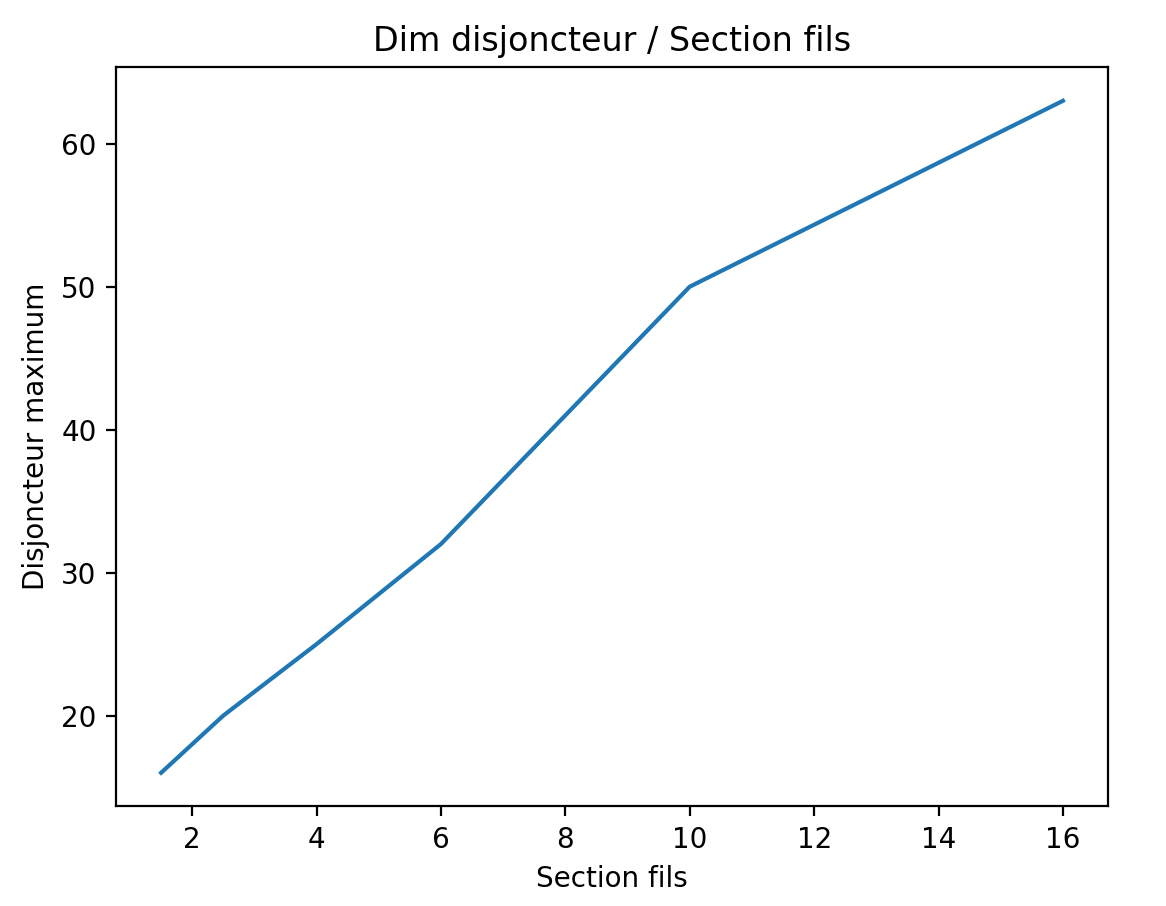
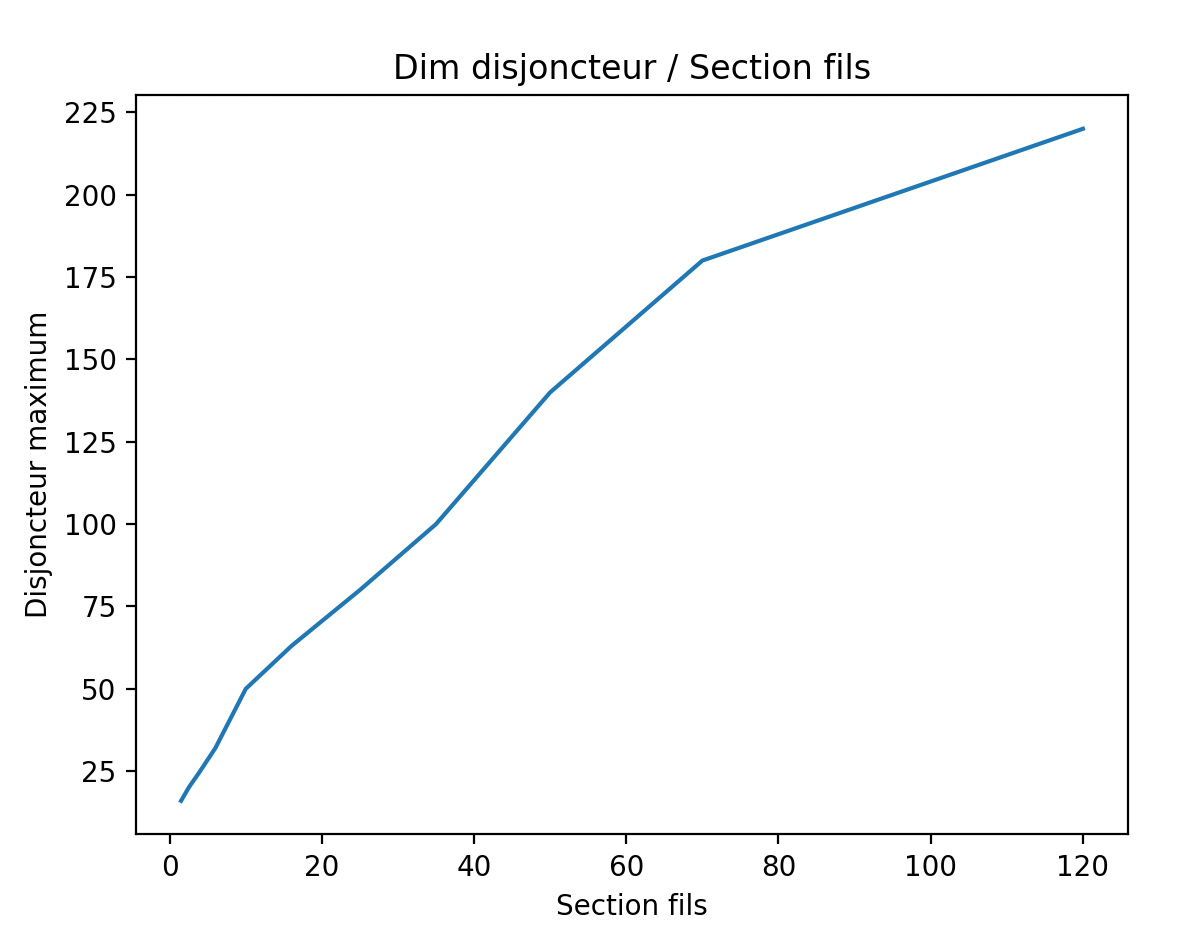
Misc edits

diff --git a/1ere_partie/CAP_Elec_1_08_annexe.md b/1ere_partie/CAP_Elec_1_08_annexe.md
@@ -1,0 +1,61 @@
+# CAP Elec 1.08 Eclairage 1 - SA, DA, VV, TL - annexe
+## Foley Services Elec - [Programme 1ère partie](../1ere_partie/README.md)
+
+### 1.08 Eclairage 1 - SA, DA, VV et permutateur, TL - annexe
+
+- **Accès à la vidéo** [1.08 Eclairage 1](https://youtu.be/CJScY8vPzTY)
+
+(Ce doc annexe reprend la réponse de [Max Aviat-Colas](https://www.facebook.com/groups/476879141274627/user/1019814109) sur [le groupe FB à une question posée la veille](https://www.facebook.com/groups/476879141274627).)
+
+### Télérupteur
+
+Le *télérupteur* est en quelque sorte un contacteur, une bobine actionne un contact dès qu’elle est activée (« excitée » ?). L’activation suit d’une impulsion libérée par la pression sur un bouton poussoir qui, fermant un circuit agit sur le contact et inverse sa position.
+
+Le télérupteur consiste donc en deux dispositifs qui sont agencés:
+
+- le contacteur, et
+- le dispositif ouvrant ou fermant le circuit d’alimentation (des lampes),
+
+expliquant la présence de quatre points de connexions le module.
+
+Ces points sont souvent désignés:
+
+- A1 et A2 ce sont les points d’alimentation de la bobine (qui crée le champ magnétique, déclenchant l’action d’inversion du contact)
+- 1 reçoit la phase en entrée du circuit,
+- 2 est le retour lampe (qui conduit la phase vers l’éclairage.
+
+Le câblage du télérupteur peut donc suivre la logique:
+
+- la phase (arrivant du disjoncteur de protection du circuit) sur 1;
+- le retour lampe sur le 2;
+- (une phase doit par ailleurs être acheminée vers les boutons poussoirs (qui peuvent être connectés en série);
+- le retour des boutons poussoirs vers A1;
+- un neutre (arrivant du disjoncteur de protection du circuit) sur 2;
+- A noter que les connexions sur les points A1 et A2 peuvent être inversées.
+
+<img src="./images/Telerupteur_annexe.png" width="50%">
+
+### Boutons poussoirs connectés sur le neutre
+
+Le principe étant explicité, on peut imaginer un autre schémas de connexion, notamment lorsque les boutons poussoirs sont connectés au neutre.
+
+- Dans ce cas, le points de connexion A2 doit accueillir la phase (arrivant depuis le disjoncteur de protection du circuit)
+
+<img src="./images/Telerupteur_annexe_neutre.png" width="50%">
+
+- A noter que dans cette configuration, le rôle du contacteur est *toujours* d'acheminer la phase vers le circuit d'éclairage;
+- Que le télérupteur est donc en quelque sorte connecté à la phase (si on inclut le retour lampe) en trois points (1, 2 et A2;
+- A noter encore une fois que le rôle des points A1 et A2 peut être inversé.
+
+### Dénominations des points de connexion
+
+On trouve certains modules télérupteurs dont les points de connexions sont désignés par des icônes, qu'on peut faire correspondre aux dénominations précédentes:
+
+| Point de connexion | Icône | Correspondance |
+|--------------------|-------|----------------|
+| Phase | P | 1 |
+| Neutre | N | A2 | 
+| Retour bouton poussoir | <img src="./images/Icone_bouton_poussoir.png" width="10%"> | A1 |
+| Retour lampe | <img src="./images/Icone_point_lumineux.png" width="10%"> | 2 |
+
+Cette dénomination par "icône" porte à confusion lorsque les boutons poussoirs sont connectés au neutre comme dans la figure précédente, puisqu'il faut alors connectés une phase sur le point de connexion marqué "N" du télérupteur ...

diff --git a/1ere_partie/CAP_Elec_Tableaux_Recapitulatifs.md b/1ere_partie/CAP_Elec_Tableaux_Recapitulatifs.md
@@ -13,8 +13,17 @@
 |              6                |                  32A                   | 25A |
 |              10               |                  50A                   | 32A |
 |              16               |                  63A                   | 50A |
+|              25               |                  80A                   | - |
+|              35               |                  100A                   | - |
+|              50               |                  140A                   | - |
+|              70               |                  180A                   | - |
+|              95               |                  200A                   | - |
+|              120               |                  220A                   | - |
+
 
 <img src="./images/Tab_dim.png" width="50%">
+
+Les valeurs sur les sections/ampérage au-delà de 16mm2/63A sont reprises d'un gorupe FB (à prendre avec précaution).
 
 ### Tableau récapitulatif câblage prises de courant
 

diff --git a/1ere_partie/README.md b/1ere_partie/README.md
@@ -33,6 +33,7 @@
 - [1.08 Eclairage 1 - SA, DA, VV et permutateur, TL](https://youtu.be/CJScY8vPzTY) / [Notes](CAP_Elec_1_08.md)
   - [1.08B Eclairage 1 - Exercice](https://youtu.be/qBrs0L6z8pQ) / [Notes](CAP_Elec_1_08B.md)
 - [1.09 Eclairage 2 - Minuterie](https://youtu.be/HF4ajbxFd2o) / [Notes](CAP_Elec_1_09.md)
+  - [1.09B Eclairage 2 - Exo Minuterie](https://youtu.be/rQ29BBtcMJQ)
 - [1.10 Eclairage 3 - Détecteur de mouvement](https://youtu.be/4gUAQGN9zc8) / [Notes](CAP_Elec_1_10.md)
   - [1.10B Eclairage Exercice 3](https://youtu.be/krza5uJND64?si=52rAHfs8k8dx_lJ1)
 - [1.11 Eclairage 4 - Interrupteurs horaire, crépusculaire et astronomique](https://youtu.be/Tcn99FxoUyU) / [Notes](CAP_Elec_1_11.md)

diff --git a/2eme_partie/CAP_Elec_1_53.md b/2eme_partie/CAP_Elec_1_53.md
@@ -14,4 +14,4 @@ Parafoudre auto-protégé de Legrand, ne nécessite pas de disjoncteurs (pour le
 
 <img src="./images/Parafoudre_auto_protege_et_circuits.png" width="60%">
 
-POur en savoir plus sur l'installation du parafoudre protégé monophasé de type 2, [voir aussi la vidéo (incluse dans la vidéo)](https://youtu.be/bPBI5mxx2j8?si=NGvlpFbEHyC5gkn3&t=146&t=141).
+Pour en savoir plus sur l'installation du parafoudre protégé monophasé de type 2, [voir aussi la vidéo (incluse dans la vidéo)](https://youtu.be/bPBI5mxx2j8?si=NGvlpFbEHyC5gkn3&t=146&t=141).
